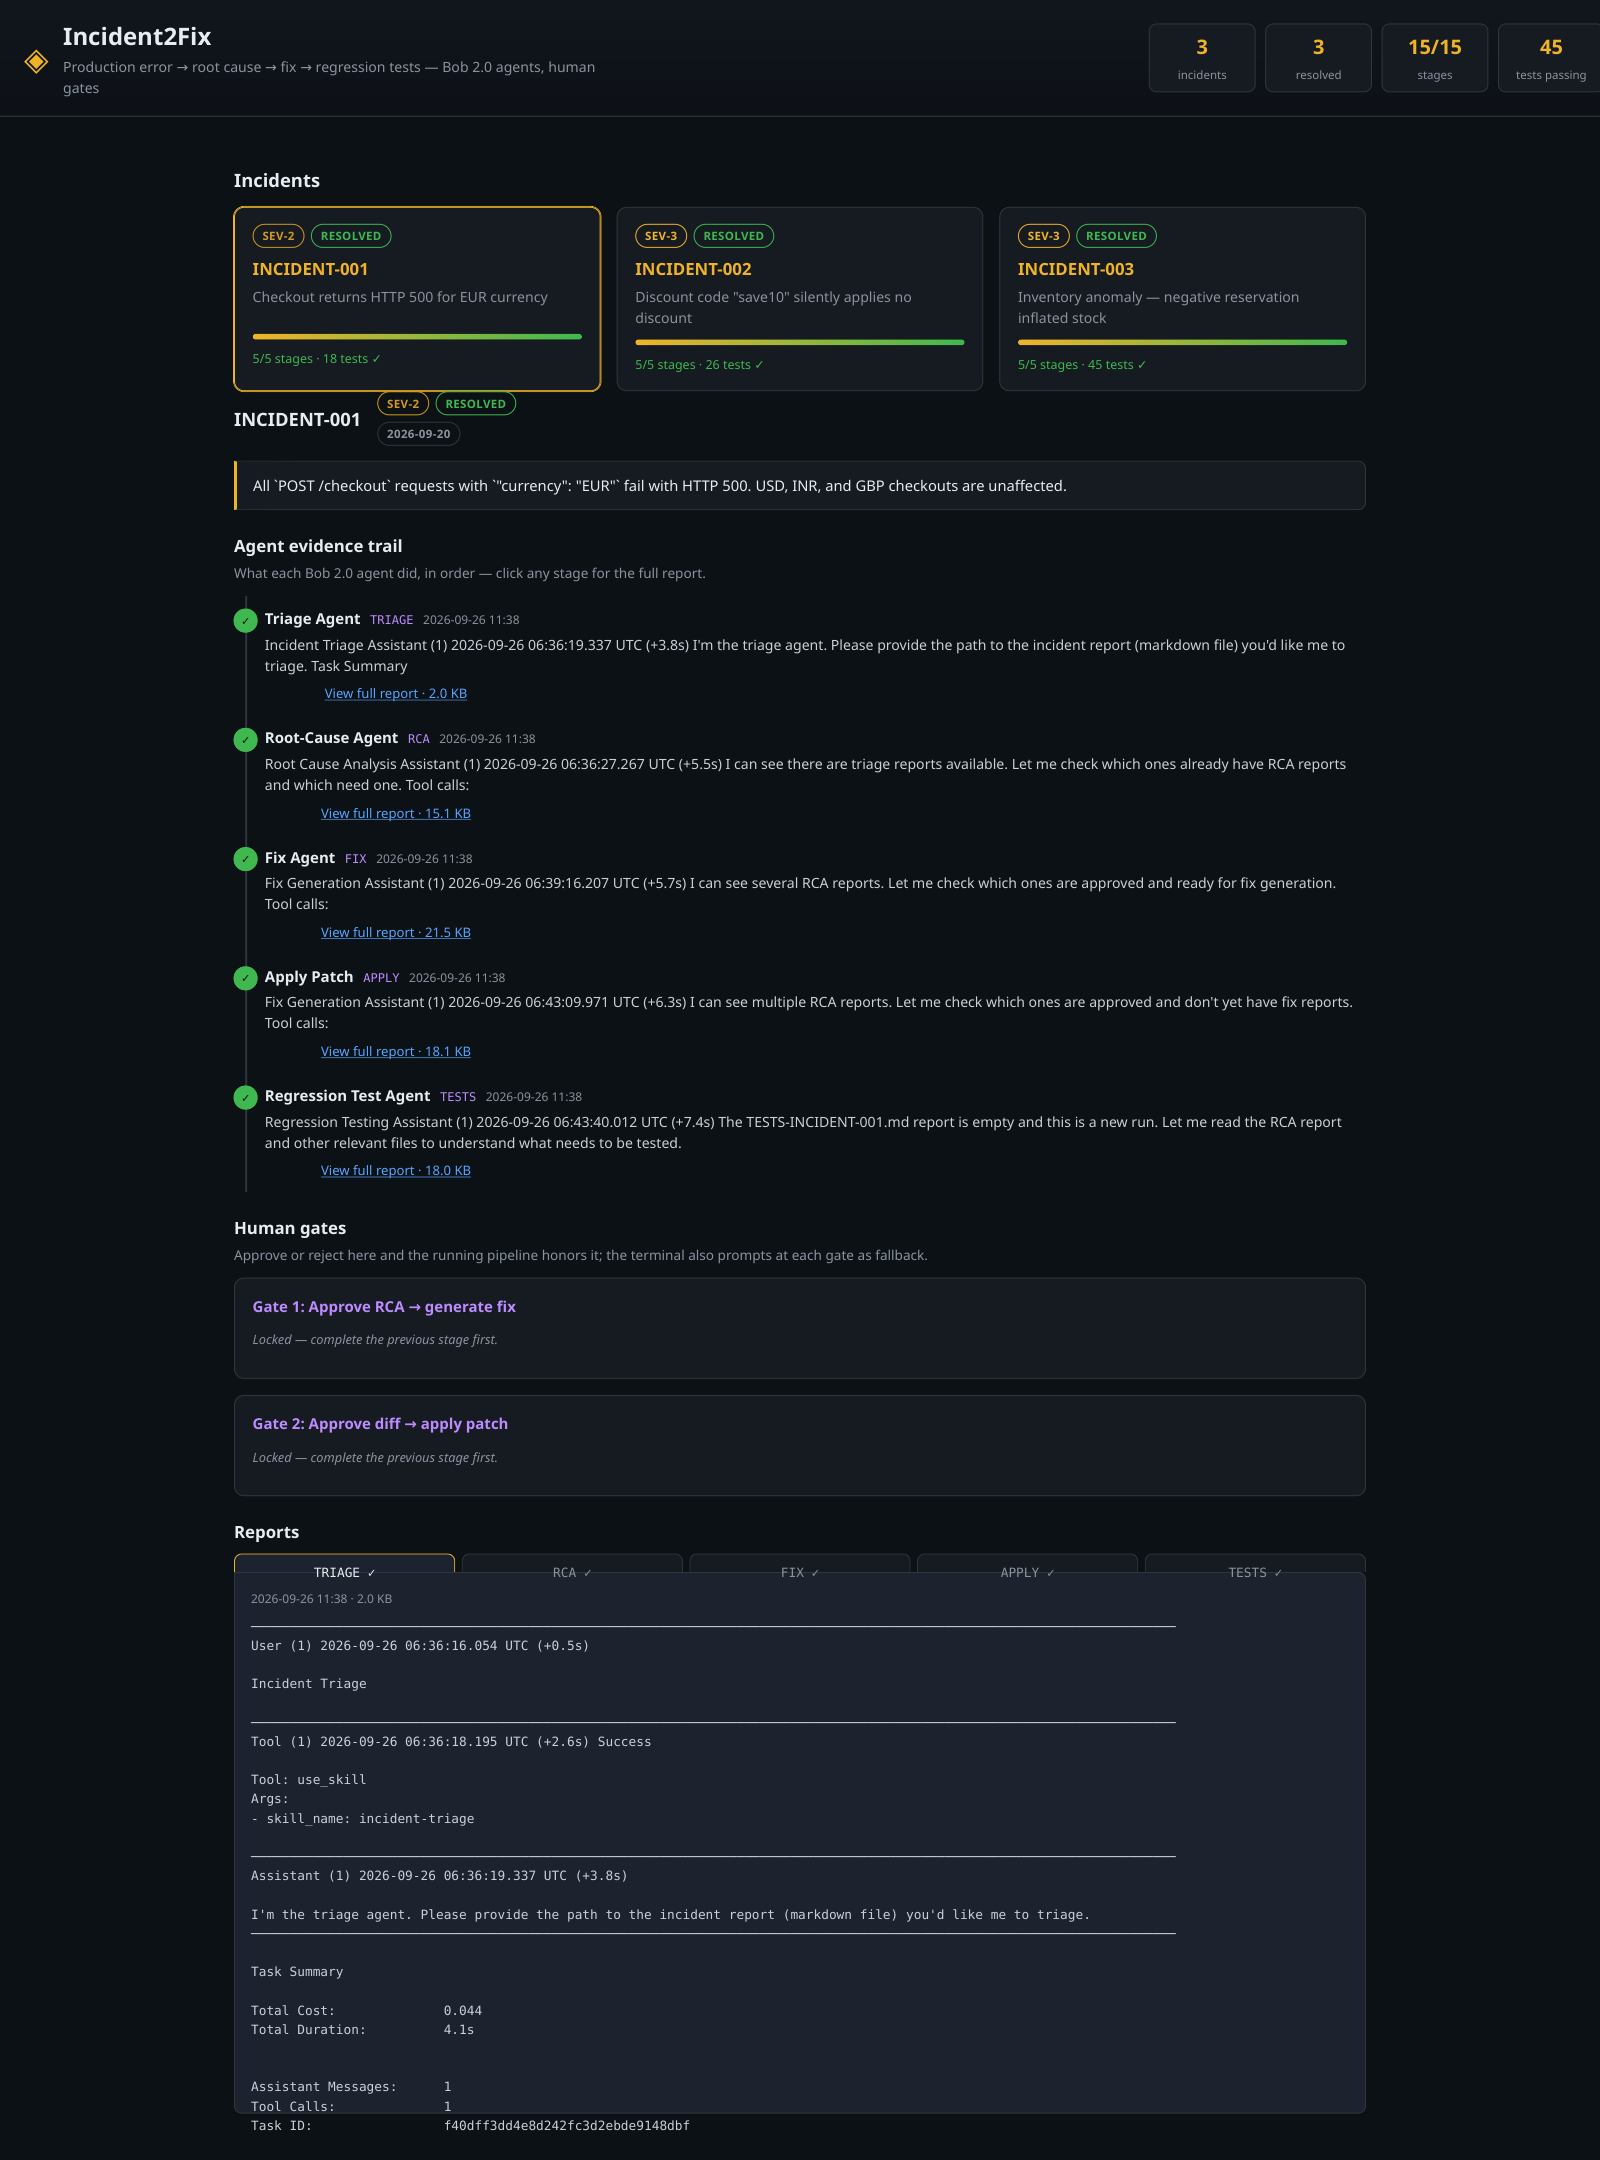
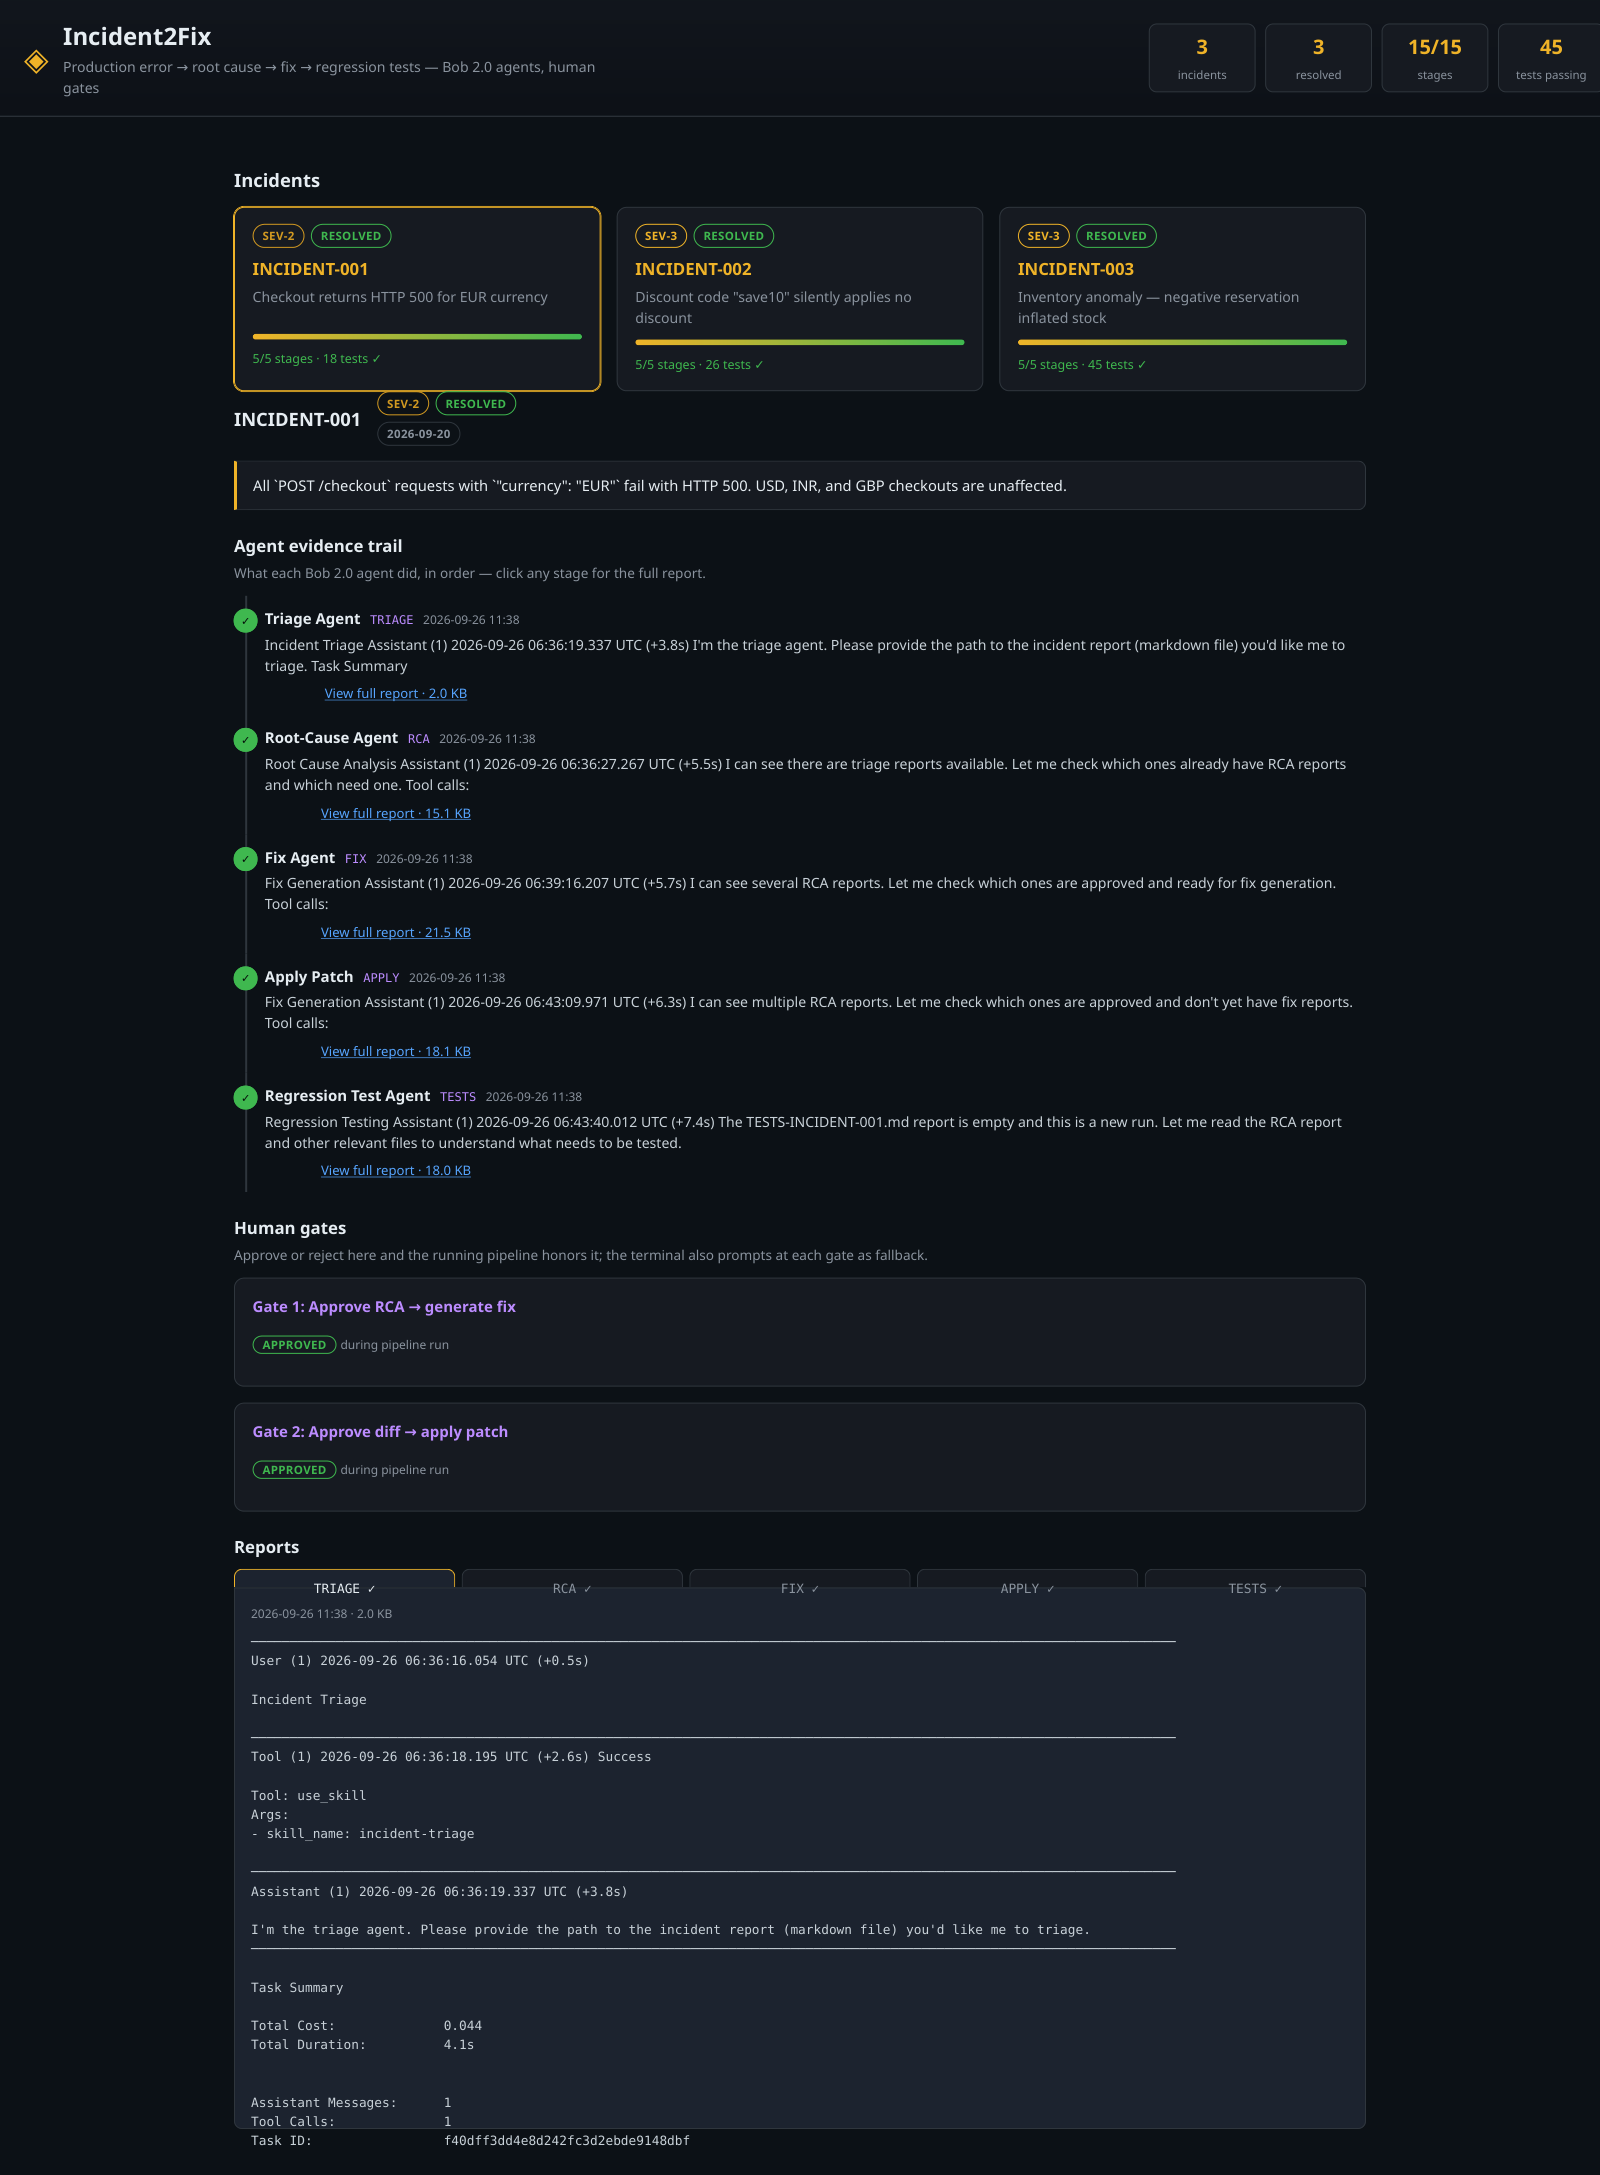
fix: resolved incidents show gates as approved, not locked

diff --git a/dashboard/templates/index.html b/dashboard/templates/index.html
@@ -164,11 +164,15 @@ function gateCard(inc, n, title, contextHtml, showWhen){
   el.className = "gate";
   let body = `<h4>Gate ${n}: ${title}</h4>`;
   if (dec) {
-    body += `<p><span class="badge ${dec.decision === "approved" ? "ok" : "sev1"}">${dec.decision}</span>
-      <span class="tl-time">${esc(dec.time)}</span></p>
-      ${dec.comment ? `<p class="comment">“${esc(dec.comment)}”</p>` : ""}`;
-  } else if (showWhen) {
-    body += `${contextHtml}
+  body += `...`;
+} else if (inc.pipeline_status === "Resolved") {
+  // A rejected gate stops the pipeline, so a Resolved incident passed both gates
+  // (approved in the terminal; no dashboard decision was recorded).
+  body += `<p><span class="badge ok">approved</span>
+    <span class="tl-time">during pipeline run</span></p>`;
+} else if (showWhen) {
+  body += `${contextHtml}
+
       <textarea id="comment${n}" placeholder="Review comment (optional)…"></textarea>
       <div class="gate-btns">
         <button class="approve" onclick="decide(${n},'approved')">Approve</button>
